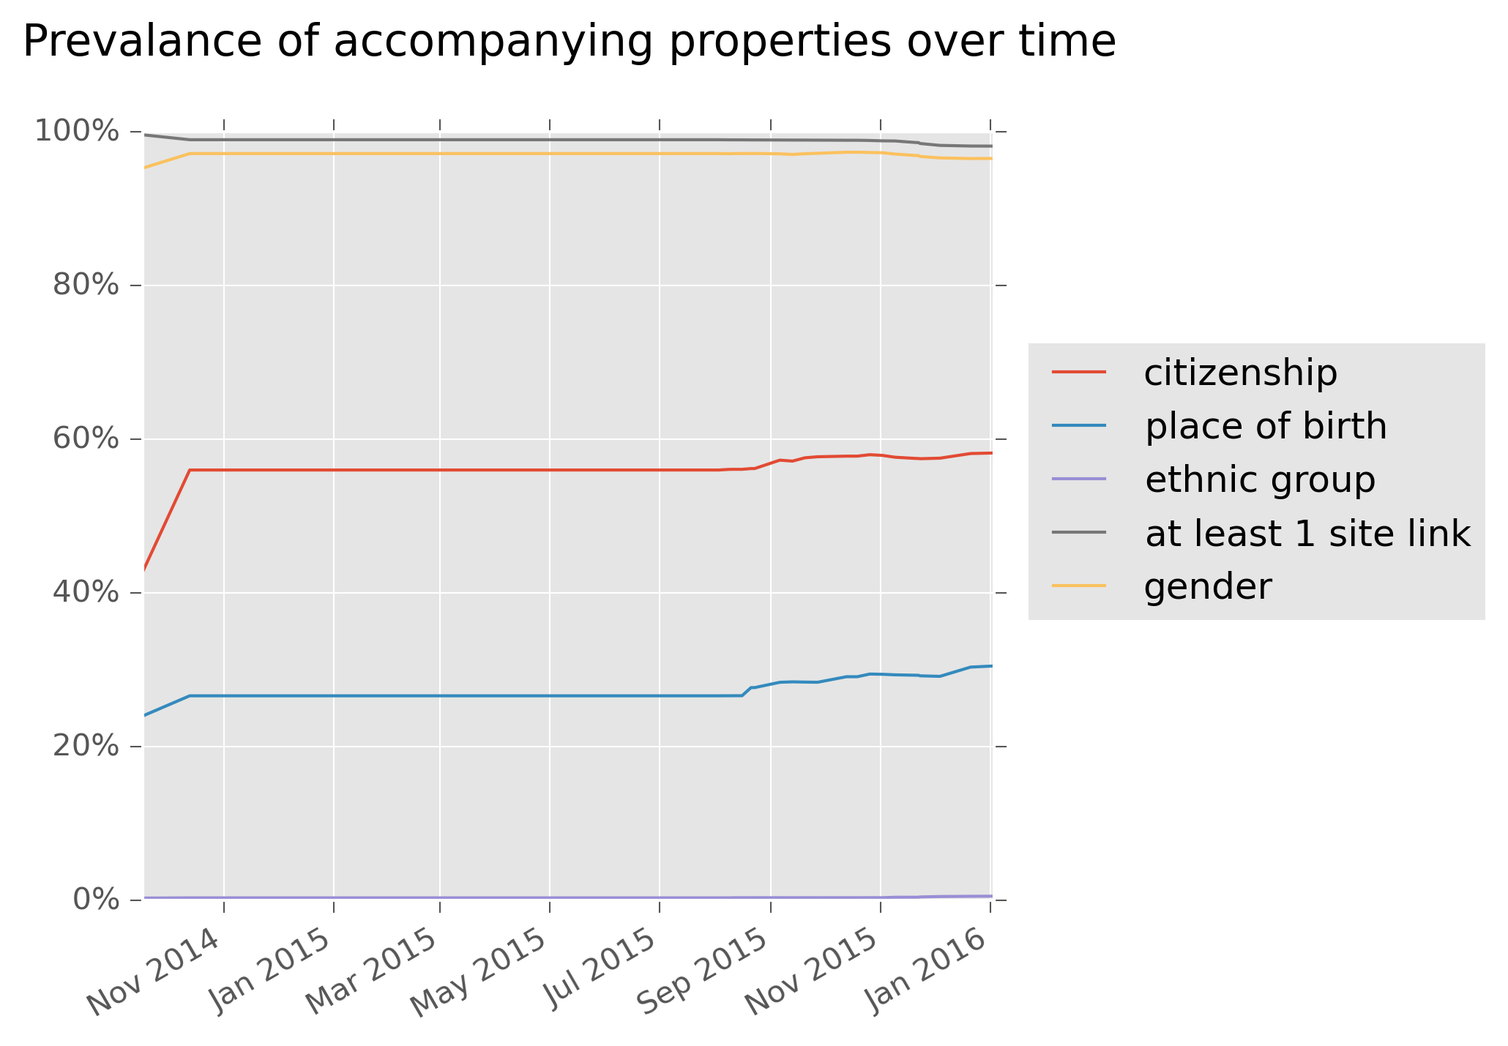
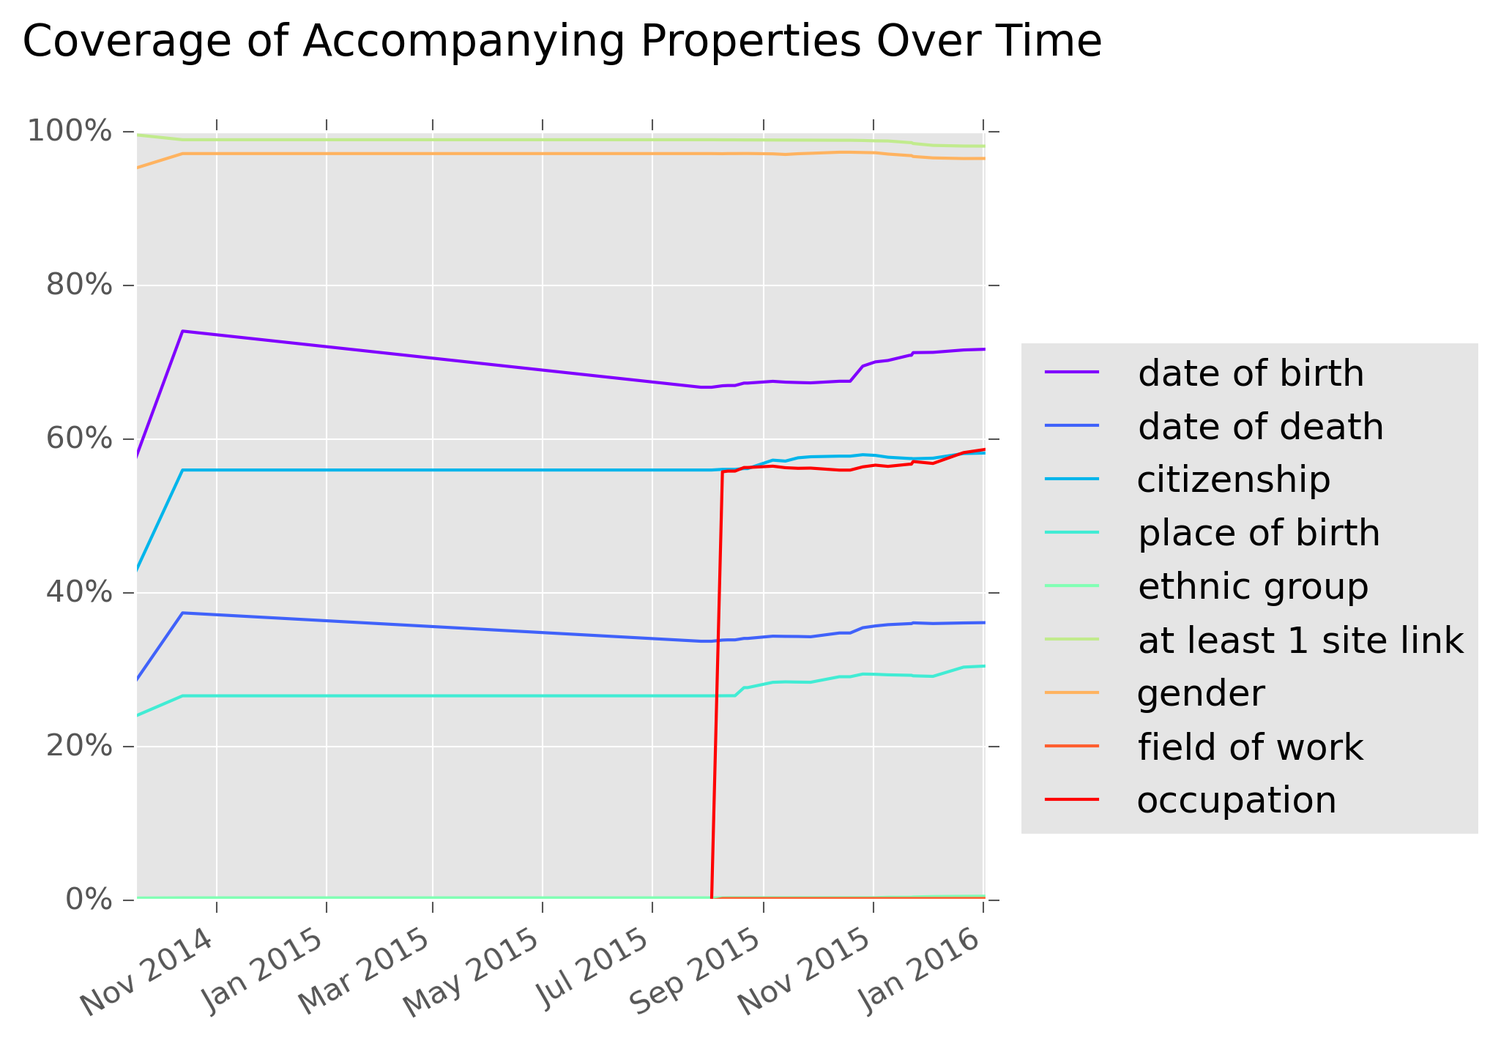
include all props in quality analysis

diff --git a/chi/wigi-dataset-icwsm.tex b/chi/wigi-dataset-icwsm.tex
@@ -7,24 +7,26 @@
 \usepackage{courier}
 \usepackage{graphicx}
 \usepackage{booktabs} % for pretty table rules
+\usepackage{hyperref}
+\usepackage[T1]{fontenc}
 
 \frenchspacing
 \setlength{\pdfpagewidth}{8.5in}
 \setlength{\pdfpageheight}{11in}
 \pdfinfo{
-/Title (Insert Your Title Here)
-/Author (Put All Your Authors Here, Separated by Commas)}
+/Title Wikidata Human Gender Index: An Open Dataset with Perspectives on Times, Space, and Occupation
+/Author Max Klein, Harsh Gupta, Vivek Rai, Haiyi Zhu}
 \setcounter{secnumdepth}{0}  
  \begin{document}
 % The file aaai.sty is the style file for AAAI Press 
 % proceedings, working notes, and technical reports.
 %
-\title{Wikidata Human Gender Index: An Open Dataset}
+\title{Wikidata Human Gender Index: An Open Dataset with Perspectives on Times, Space, and Occupation}
 
 \author{Max Klein \\
-Grouplens, Department of Computer Science \\
+Grouplens, Department of Computer Science, University of Minnesota \\
 Minneapolis, Minnesota 55455 \\
-isalix@gmail.com\\
+max@notconfusing.com\\
 }
     
 \maketitle
@@ -34,84 +36,90 @@ AAAI creates proceedings, working notes, and technical reports directly from ele
 
 
 \section{Introduction}
-Problematize introduction and make obvious need.
+Wikipedia has a gender gap. Wikidata offers new opportunities. \cite{wikidata-release}
+Measuring the gender gap in content solves two problems. One is, what gets measured gets fixed. Furthermore, the scope of Wikidata gives us an unprecedented look at gender through time, space, and occupation which has practical applications for data mashups. 
 
-Landscape of ways in which Wikipedia shows bias, and Landscape of biases.
+Landscape of ways in which Wikipedia shows bias, and Landscape of biases. \cite{Wagner}. And has shown to be true particularly for the Wikipedia content gap \cite{carlosnotebook}.
 
-Our first observation is from September 17th 2014, and latest is January 3rd 2016. Although our dataset is now updated weekly following the official data dumps, automation was not completed until June 28th 2015, and so there is a window missing from October 2014 to June 2015. 
+We introduce a dataset called Wikidata Human Gender Index (WHGI), which is.
 
-Albeit with caveats and huge biases, if the data is to believed, affords us an unprecedented look at gender representation on a time and geographic scale not possible before.
+It is longitudinal, and we present summary statistics from our snapshotting. Our first observation is from September 17th 2014, and latest is January 3rd 2016. Although our dataset is updated weekly following the official Wikidata data dumps \footnote{•}.
 
-Introduce the dataset, and it's potential applications.	
+WHGI is not a not entirely Wikipedia navel-gazing, we present 3 validation measures that show that it is increasingly representing the real world. This means that albeit with caveats and huge biases, if the data is to believed, affords us an unprecedented look at gender representation on a time and geographic scale not possible before.
+
+The WHGI is meant for re-use, and we present some of the potential applications 
+
 \section{Dataset Details}
 
 \begin{figure}
 \label{fig:screenshot}
-\includegraphics[scale=0.6]{figures/website_screenshot.png} 
+\includegraphics[scale=0.2]{figures/website_screenshot.png} 
 \caption{Screenshot of wigi.wmflabs.org displaying the gender by culture plot.}
 \end{figure}
 
-How to use the data.
+Our dataset is available for free under the CC0 license online at  \url{http://wigi.wmflabs.org/} . Here a visualization demonstration of our data lives, and direct downloads, from the \url{http://wigi.wmflabs.org/snapshot_data/} folder. 	This folder contains the CSV-formatted, weekly captured \textit{snapshots} of gender-related data from Wikidata. Each snapshot contains an unaggregated one-row-per-human complete view of the data, \textit{re-indexed} ``property"-specific file, aggregated by tempo, spatial, and other properties, and weekly changes between the property indexes.
 
-Our dataset is available for free under the CC0 license online at  http://wigi.wmflabs.org/ . Here a visualization demonstration of our data lives, and direct downloads, from the http://wigi.wmflabs.org/snapshot_data/ folder. 	This folder contains the CSV-formatted, weekly captured "snapshots" of gender-related data from Wikidata. Each snapshot is represented in its own folder, along with are two special folders. The special folders are titled \texit{newest} and \textit{newest-changes}, which will always link to the most recent snapshot, and the changes between the two most recent snapshots (week to week), respectively.
-
-Each week, just after the release of Wikidata's official weekly data dump, we download a copy of the dump and process it in the following way. Using the Wikidtata Toolkit \cite{kroetsch} the entire database is subset to only those items which have the property \textit{instance of} with value \textit{human} - or ``P31:Q5" in Wikidata terms. For each human item we find the values of \texit{gender}, \textit{date of birth}, \textit{date of death}, \textit{place of birth}, \textit{place of birth}, \textit{place of birth}, \textit{place of birth}, \textit{place of birth} and \textit{place of birth}. These correspond to Wikidata properties Q1, Q1,Q1,Q1,Q1,Q1,Q1, respectively. In every snapshot folder this intermediate step is saved as ``gender-index-data-\{snapshot data\}.csv", it records one Wikidata item per row, and it's columns are the value of each property. In order to be faithfully represent Wikidata, the value of each property is actually a list, since Wikidata allows there to potentially be many competing values for a property. We store the list, inside the comma-separated sheet, as | (pipe)-separated values. 
+\subsection{Processing}
+Each week, just after the release of Wikidata's official weekly data dump, we download a copy of the dump and process it in the following way. Using the Wikidtata Toolkit \cite{kroetsch} the entire database is subsetted to only those items which have the property \textit{instance of} with value \textit{human} - or ``P31:Q5" in Wikidata terms. For each human item we find the values of \textit{gender}, \textit{date of birth}, \textit{date of death}, \textit{place of birth}, \textit{citizenship}, \textit{ethnic group}, \textit{field of work}, and \textit{occupation}. These correspond to Wikidata properties P21, P569, P570, P19, P27, P172, P101, and P106 respectively.  In every snapshot folder this intermediate step is saved as ``gender-index-data-\{snapshot data\}.csv", it records one Wikidata item per row, and it's columns are the value of each property.
  
-For each of the recorded properties we then re-index the dataset aggregated on that property, but disaggregated by gender. So for instance, the date of birth index has one row per year unique year found as a date of birth, and one column per gender represented in Wikidata. For example the in the January 3^{rd} 2016 snapshot, the first row the date of birth index reads that for the year -4203 BCE Wikidata records two men, and no other genders as having this date of birth. Inside every snapshot folder there exists a subfolder containing 11 "re-indexes" of the snapshot - one per recorded property.
+For each of the recorded properties we then re-index the dataset aggregated on that property, but disaggregated by gender. So for instance, the date of birth index has one row per year unique year found as a date of birth, and one column per gender represented in Wikidata. For example the in the January 3\textsuperscript{rd} 2016 snapshot, the first row the date of birth index reads that for the year 4203 BCE Wikidata records two men, and no other genders as having this date of birth. Additionally there are indexes, that make use of the Wikipedia languages in which a human is represented - \textit{sitelinks}, and geographic aggregations of citizenship, place of birth and ethnic group into properties called \textit{culture}, and \textit{worldmap}. Inside every snapshot folder there exists a subfolder titled ``property-indexes" containing 11 ``re-indexes" of the snapshot - one per property dimension.
  
- The third item in every snapshot folder is titled ``changes-since- \{previous snapshot date\}, and contains computed differences between this snapshot and the last. This feature allows pinpoint what happened in the past week. There is one ``change-since" file for each property file. The operation simply takes the union of the row-index, and the columns, and subtracts the earlier values from the later values, element-wise. Using the date of birth example again, the changes since file will show which genders were added - or subtracted - for each year, in the course of the week.
-   
-How is it updated.
-How can they be used. Examples of how to process the CSV can be found in our github repository (link.)
+ The third item in every snapshot folder is titled ``changes-since- \{previous snapshot date\}, and contains computed differences between this snapshot and the last. This feature allows inspection of the movements of the past week. There is one ``changes-since" file for each property file. Using the date of birth example again, the changes since file will show which genders were added - or subtracted - for each year, in the course of the week.
 
-Inside the directory, you will find:
+Examples of how to process the CSVs using both \textit{python-pandas} and \textit{R} can be found in our github repository \footnote{\url{https://github.com/notconfusing/WIGI}}. 
 
-gender-index-data.csv (contains all properties)
-property_indexes
-per-property.csv
-changes-since-2015
-per-property-changes-since-last-week.csv
+As a demonstration the website displays 4 interactive visualizations of the dataset. Figure \ref{fig:screenshot} shows the \textit{gender-by-country} visualization, which shows the female ratio of humans by place of birth and citizenship combined. The visualizations show \textit{gender-by-culture}, where culture is a further aggregation of countries, \textit{gender-by-date-of-birth-and-death} and \textit{gender-by-Wikipedia-language}.
 
-Show demonstrations of graphs from the website. As a demonstration the website displays 4 visualizations of the data. 
+Additionally there are two special folders in our root directory which we offer for convenience,  titled \textit{newest} and \textit{newest-changes}, which will always link to the most recent snapshot, and the changes between the two most recent snapshots (week to week), respectively. This makes it easy to always access the freshest data.
 
+In order to faithfully represent Wikidata, the value of each property is actually a list, since Wikidata allows there to potentially be many competing values for a property. (We store the list, inside the comma-separated sheet, as | ``pipe"-separated values.)  Also note, for faithfulness there is virtually no data-cleaning done, as the point of our project is to display information as faithfully as possible. Our dataset is meant to be used to uncover potential biases in Wikidata and the world at large, and we feel that any cleaning process would introduce further biases.
 
-There is little cleaning done. More on this later.
+\section{Dataset Statistics}
+We now turn to look at simple statistics of our dataset, specifically with regard to how it has changed over time. Our first snapshot was on September 17\textsuperscript{th} 2014, and the latest analysed here is January 3\textsuperscript{rd} 2016. Since automation of snapshotting was not completed until June 28th 2015, there is unfortunately a window missing from October 2014 to June 2015. 
 
-\section{Data Statistics}
-Total humans in Wikidata increased from 5,869,606 to 6,999,542, and shows linear, unconstrained growth.
+\subsection{Data Quality}
+Let us first query the size of the dataset. Total humans in Wikidata increased from 5,869,606 to 6,999,542, and shows linear, unconstrained growth (see Figure \ref{fig:totalhumans}).
 \begin{figure}
 \label{fig:totalhumans}
 \includegraphics[scale=0.6]{figures/totalhumans.png} 
 \caption{Total number of humans found in Wikidata at each snapshot period.}
 \end{figure}
 
-We should also be curious to the data quality of the increasing humans. One way to think about this is about the how much data is accompanying these human entries. We looked at the properties citizenship, place of birth, and ethnic group which will help us best geographically place a human. Another mark of quality is whether a human in Wikidata has an entry in a Wikipedia - a ``sitelink" in Wikidata vocabulary. \ref{fig:accompanying} shows the rate of accompanying properties, at the earliest and latest snapshots from 2014 and 2016 respectively. The statistics show that data quality has been increasing uniformly over time. The number of humans with \textit{gender} data increased by over 1\%, closer to complete coverage. Likewise \textit{citizenship} data increased by 15\% , \textit{place of birth} by 6\%  , and \textit{ethnic group} almost doubled \ref{table:accompanying}. Curiously the rate of humans having sitelinks decreased slightly. 
+We should also be curious to the data quality of the increasing humans. One way to think about this is about the how much data is accompanying these human entries. We looked at the properties citizenship, place of birth, and ethnic group which will help us best geographically place a human. Another mark of quality is whether a human in Wikidata has an entry in a Wikipedia - a ``sitelink" in Wikidata vocabulary. Figure \ref{fig:accompanying} shows the rate of accompanying properties, at the earliest and latest snapshots from 2014 and 2016 respectively. The statistics show that data quality has been increasing almost uniformly over time. The number of humans with \textit{gender} data increased by over 1\%, closer to complete coverage. In the time domain \textit{date of birth} and \textit{date of death}coverage increased by 14\% and 7\%. Likewise \textit{citizenship} data increased by 15\% , \textit{place of birth} by 6\% , and \textit{ethnic group} almost doubled (see Table \ref{table:accompanying}). Field of work, and occupation data was not included in our dataset until late, so their growth, while increasing is not precisely comparable.
 
-A Wikidata human without a Wikipedia article is know as a ``structural item"; for instance a Monarch without a Wikipedia article, but is a needed link in a family tree. With the view that a structural item is an artefact from humans paying attention to Wikidata's structure, the decrease in sitelinked humans can also be seen as a rise in data quality.
+Curiously the rate of humans having sitelinks decreased slightly, but this is important as well A Wikidata human without a Wikipedia article is know as a ``structural item"; for instance a member of royalty without a Wikipedia article but is a needed to make a family tree complete. With the view that a structural item is an artefact from humans paying attention to Wikidata's structure, the decrease in sitelinked humans can also be seen as a rise in data quality.
+
 
 \begin{table}
 \caption{Change in rates of human-accompanying properties}
-\begin{tabular}{lrrrrr}
+\begin{tabular}{lrr}
 \toprule
-snapshot &  gender &  citizenship &  place of birth &  ethnic group &  at least 1 site link \\
+{} &  2014-09-17 &  2016-01-03 \\
 \midrule
-2014-09-17 &  95.29\% &       42.82\% &          24.01\% &         0.31\% &                99.62\% \\
-2016-01-03 &  96.54\% &       58.22\% &          30.51\% &         0.56\% &                98.15\% \\
+gender               &       95.3\% &       96.5\% \\
+date of birth        &       57.6\% &       71.7\% \\
+date of death        &       28.6\% &       36.1\% \\
+citizenship          &       42.8\% &       58.2\% \\
+place of birth       &       24.0\% &       30.5\% \\
+ethnic group         &        0.3\% &        0.6\% \\
+field of work        &        n/a &        0.3\% \\
+occupation           &        n/a &       58.7\% \\
+at least 1 site link &       99.6\% &       98.1\% \\
 \bottomrule
 \end{tabular}
-
 \label{table:accompanying}
 \end{table}
 
 \begin{figure}
 \label{fig:accompanying}
-\includegraphics[scale=0.6]{figures/additionalprops.png} 
+\includegraphics[scale=0.5]{figures/additionalprops.png} 
 \caption{Trend of human-accompanying properties by snapshot.}
 \end{figure}
 
-Another important factor to note is that our dataset tries not to clean itself to fit any model. In fact the ``gender" property in Wikidata is actually labelled in English ``sex or gender" (no distinction), and not limited to any value. Over our time recording we found 36 values used for ``sex or gender", including ``male" and ``female", but extending to nonbinary genders ``transgender female", ``intersex", ``fa'afafine", ``transgender", ``Gender fluid",  ``genderqueer", ``kathoey", and ``queer". At times the other information is recorded such as ``gay", or ``homosexuality" and ``Alien" or "cheetah". And even what seem to be mistakes are left in such as  ``Solanum tuberosum", ``Messi", or ``sociologist".
+An important factor to note, as mentioned, is that our dataset does is not \textit{cleaned} to fit any model. In fact the ``gender" property in Wikidata is actually labelled in English ``sex or gender" (no distinction), and not limited to any value. Over our time snapshotting we found 36 values used for ``sex or gender", including ``male" and ``female", but extending to nonbinary genders ``transgender female", ``intersex", ``fa'afafine", ``transgender", ``Gender fluid",  ``genderqueer", ``kathoey", and ``queer". At times the other categories of information is recorded here - perhaps erroneously - such as ``gay", or ``homosexuality". And even what seem to be mistakes are left in such as one-offs of ``Solanum tuberosum", ``Messi", or ``sociologist".
 
-Focusing on one of our motivations, monitoring the trend of gender representation, we inspect the rate at which women are recorded in Wikidata. \ref{fig:frb} shows the ratio of ``female" recorded humans versus all gendered biographies. Similarly to total biographies this measure is rising at a fairly linear rate of approximately 0.5\% per year. The final months on record show a slight decline which warrants further investigation. In fact being able to measure at a level where is precisely one of the points of having such a live-updating measure - to be able to detect trends as they happen, and perhaps relate them to community issues. 
+\subsection{Simple Metrics}
+As further motivation for how the dataset can be used, we present some simple metrics which would be of interest to Wikimedian communities. Focusing on one of our motivations, monitoring the trend of gender representation, we inspect the rate at which women are recorded in Wikidata. Figure \ref{fig:frb} shows the ratio of ``female" recorded humans versus all gendered biographies. Similarly to total biographies this measure is rising at a fairly linear rate of approximately 0.5\% per year. The final months on record show a slight decline which warrants further investigation. In fact being able to measure at this temporal level is precisely one of the points of having such a live-updating measure - to be able to detect trends as they happen, and perhaps relate them to community issues. 
 
 \begin{figure}
 \label{fig:frb}
@@ -119,7 +127,7 @@ Focusing on one of our motivations, monitoring the trend of gender representatio
 \caption{Trend of human-accompanying properties by snapshot.}
 \end{figure}
 
-Another way in which Wikimedians can use the data is to look at trends specific to Wikipedia languages. It is easy to use the data to compile a top-10 list of Wikipedias whose female ratio of humans increased the most, see \ref{table:top10}. This measure does not explain whether women's representation in those languages increased because because editors took longer to record women's gender in Wikidata and were catching up in the observed period, or that these languages became more women-focused over the snapshotting period.
+Another way in which Wikimedians can use the data is to look at trends specific to Wikipedia languages. It is easy to use the data to compile a top-10 list of Wikipedias whose female ratio of humans increased the most, see Table \ref{table:top10}. This measure does not explain whether women's representation in those languages increased because because editors took longer to record women's gender in Wikidata and were catching up in the observed period, or that these languages became more women-focused over the snapshotting period. Such forensics is possible with this dataset though.
 
 \begin{table}
 \caption{Top 10 Wikis by increase in female ratio of humans from October 2014 to January 2016}
@@ -145,15 +153,14 @@ Hebrew      & 1.17\% \\
 \end{table}
 
 \section{Validation}
-We validated out data by comparing it against 3 exogenous measures. Wikidata date of birth frequency versus historical world population trends, Wikidata gender by country  versus external by-country gender-disparity indexes, and Wikidata occupation gender versus United States Bureau of Labour Statistics occupation gender.
+In order to gain an idea about how well WHGI reflects the real world, we validated out data by comparing it against 3 exogenous datasets. We correlated the WHGI date of birth frequency versus historical world population trends; WHGI gender by country versus external by-country gender-disparity indexes; and WHGI occupation by gender versus United States Bureau of Labor Statistics occupation gender.
 
 \subsection{World Population}
 
-\subsection{External Indices}
-Calibrated start dates were each 1900 or 1910 - a good sign. Over time the the WHGI-county is become more correlated to major external gender-disparity indexes \ref{table:scores}. In context with the fact that data quality is rising, this can be taken to mean that as Wikidata becomes more complete it is modelling the real world more. 
+\subsection{Exogenous Gender-Disparities Indices}
 
  \begin{table}
-\caption{WHGI-country correlation to external indices. Correlation is the Spearman $\rho$, and signficances are *p<0.05, **p<0.01}
+\caption{WHGI-country correlation to external indices. Correlation is the Spearman $\rho$, and signficances are $ ^*p\leq 0.05 $, $ ^{**}p\leq 0.01$.}
 \label{table:scores}
 \begin{tabular}{lrrrr}
 \toprule
@@ -165,6 +172,23 @@ snapshot &  GEI &  SIGI &  GGGI &  GDI  \\
 \end{tabular}
 \end{table}
 
+WHGI is inspired in part by the already rich landscape of gender disparity indices, such as The Gender Development Index (\textbf{GDI}) from the United Nations Development program. It ``measures gender gap in human development achievements in three basic dimensions of human development: health, education, command over economic resources [sic]" \footnote{\url{http://hdr.undp.org/en/content/gender-development-index-gdi}}.
+
+\item In Education, Social Watch's Gender Equity Index (\textbf{GEI}) ``looks at the gender gap in enrolment at all levels and in literacy; economic participation computes the gaps in income and employment and empowerment measures the gaps in highly qualified jobs, parliament and senior executive positions." \footnote{\url{http://www.socialwatch.org/node/14366}}
+\item The Global Gender Gap Index (\textbf{GGGI}) was developed by the World Economic Forum in 2006. The GGGI is intended to allow comparison of gender gap across different countries and years, it focuses on four areas:  economic participation and opportunity, educational attainment, political empowerment and health statistics.
+\item The Social Institutions and Gender Index (\textbf{SIGI}) is of the OECD Development Centre from 2007. A composite indicator of gender equality that solely focuses on social institutions (norms, values and attitudes), SIGI uses the five dimensions of discriminatory family code, restricted physical integrity, son bias, restricted resources and assets, and restricted civil liberties.
+
+
+
+Calibrated start dates were each 1900 or 1910 - a good sign. Over time the the WHGI-county is become more correlated to major external gender-disparity indexes, see Table \ref{table:scores}.
+
+Cite myself for what it means. 
+
+
+\subsection{Bureau of Labor Statistics}
+
+
+ In context with the fact that data quality is rising, this can be taken to mean that as Wikidata becomes more complete it is modelling the real world more. 
 
 \section{Potential Applications}
 Open Knowledge Foundation founder Rufus Pollock once said ``The best thing to do with your data will be thought of by someone else.”
